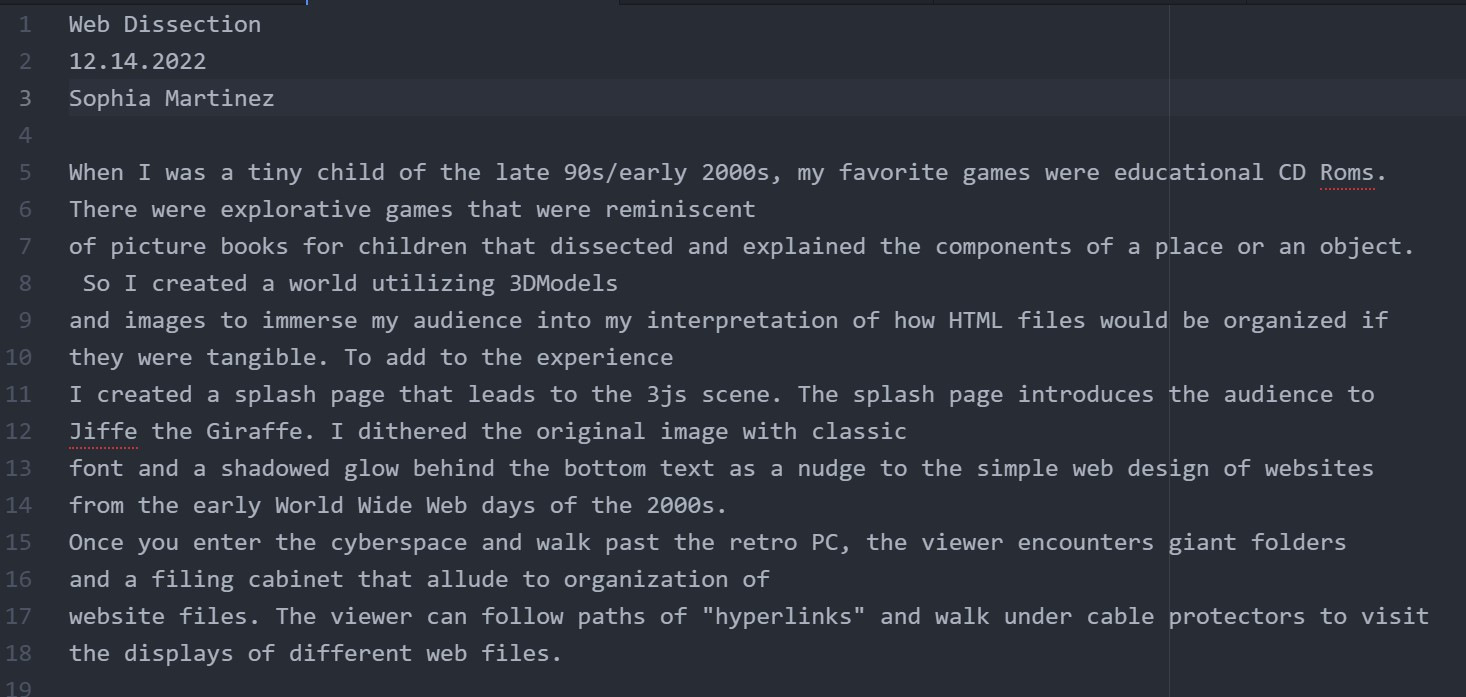
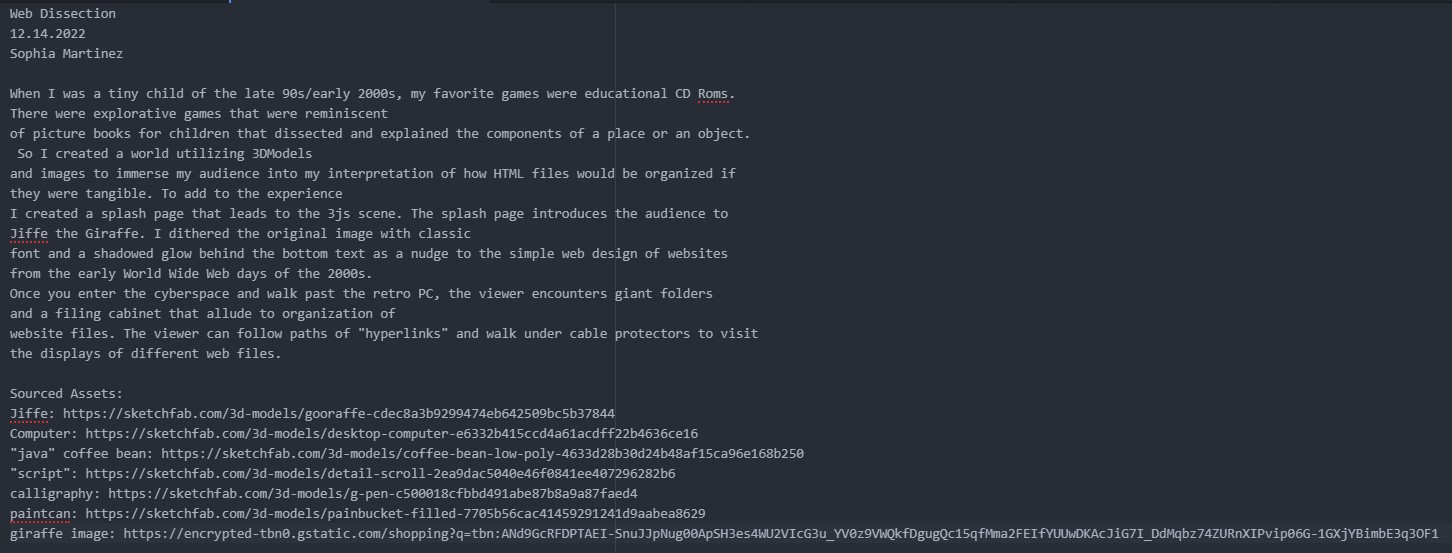
added sources

Changed region(s): [[0.0, 0.0, 0.9917, 1.0]]

diff --git a/js/3.js b/js/3.js
@@ -45,7 +45,7 @@ function init() {
   scene.fog = new THREE.Fog(0xffffff, 0, 750);
 
   // Define scene lighting
-  var light = new THREE.AmbientLight(0x404040, 1);
+  var light = new THREE.AmbientLight(0x404040, 8);
   // light.position.set(0.5, 1, 0.75);
   scene.add(light);
 
